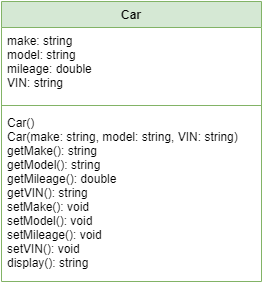
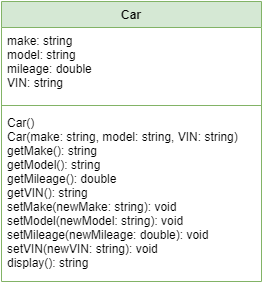
Updated Car class diagram

Changed region(s): [[0.1825, 0.6993, 0.7909, 0.8951]]

diff --git a/Chapter09/Car.java b/Chapter09/Car.java
@@ -1,0 +1,38 @@
+package Chapter09;
+
+public class Car {
+    private String make;
+    private String model;
+    private double mileage;
+    private String VIN;
+
+    // Constructors
+    public Car(){
+        mileage = 0.0;        
+    }
+
+    public Car(String make, String newModel, String VIN){
+        this.make = make;
+        this.model = newModel;
+        this.VIN = VIN;
+    }
+
+    // getters
+    public String getMake(){
+        return this.make;
+    }
+    public String getModel(){
+        return this.model;
+    }
+    public double getMileage(){
+        return this.mileage;
+    }
+    public String getVIN(){
+        return this.VIN;
+    }
+
+    // setters
+    public void setMake(String newMake){
+        this.make = newMake;
+    }
+}
